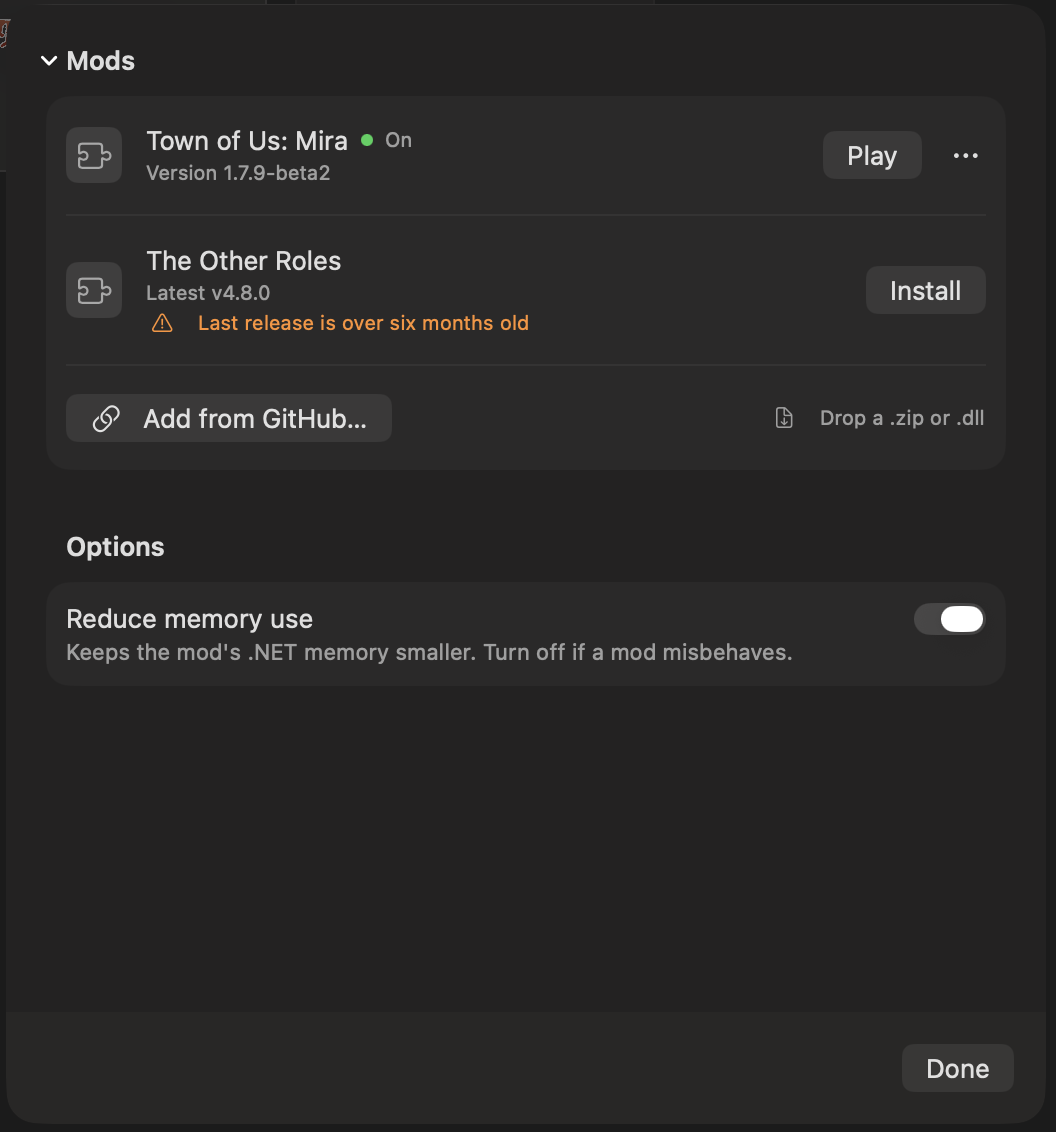
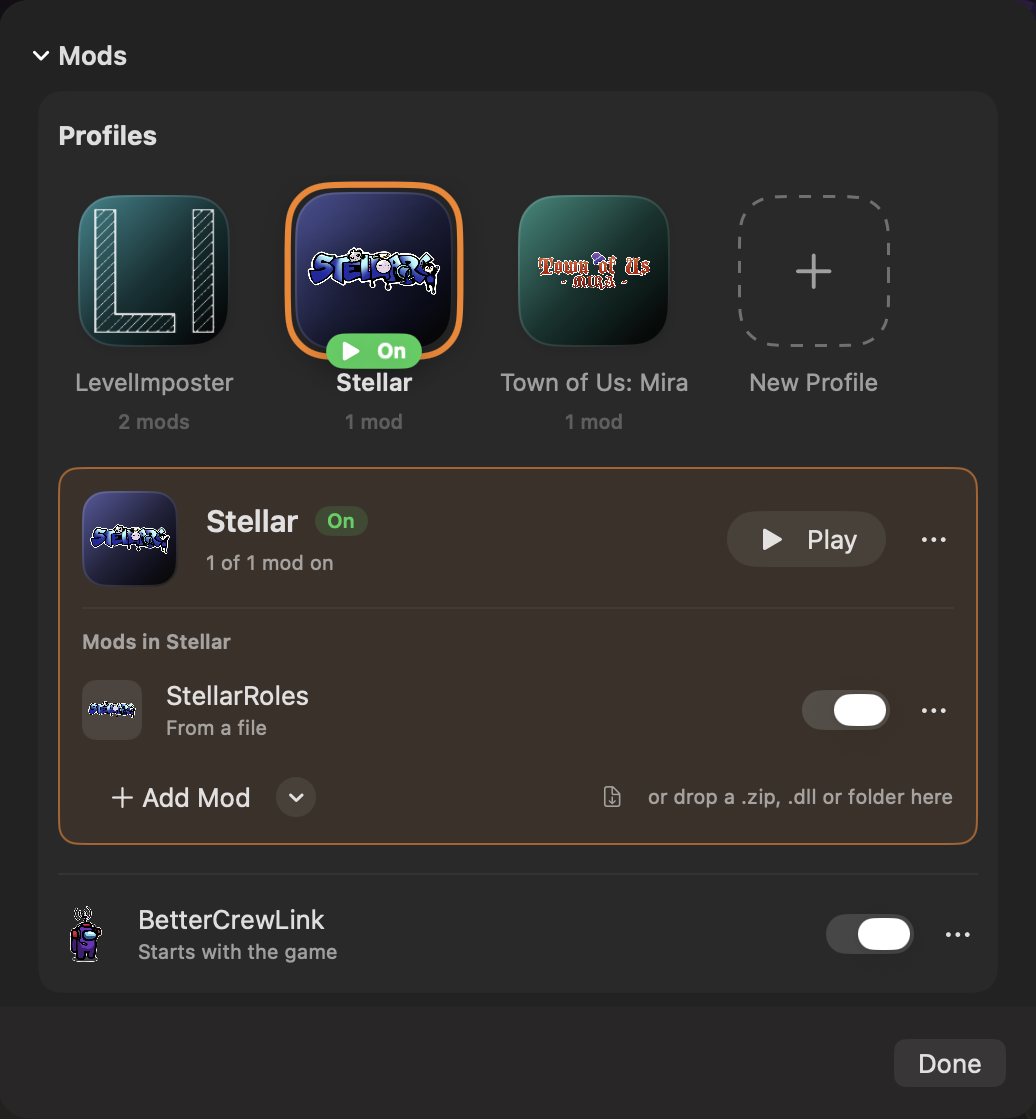
README and site: mod profiles, new screenshots
New Library and profile screenshots, a guide to profiles, and the site's
features for profiles, adding several mods and the in-app Steam Store.

diff --git a/site/src/App.jsx b/site/src/App.jsx
@@ -1,11 +1,11 @@
 import useScrollScenes from './useScrollScenes.js'
 
 const REPO = 'https://github.com/JasonForReels/BetterWhisky'
-const VERSION = '1.0.0'
+const VERSION = '1.3.0'
 const DMG = `${REPO}/releases/download/v${VERSION}/BetterWhisky-${VERSION}.dmg`
 
 const statement =
-  'Paste a GitHub link. Press Play. BetterWhisky finds the right release, reads the install steps, keeps the game version the mod needs, and starts it through Steam so you stay signed in.'
+  'Make a profile. Add any mods to it. Press Play. BetterWhisky finds the right release, reads the install steps, keeps the game version the mod needs, and starts it through Steam so you stay signed in.'
 
 const tour = [
   {
@@ -37,17 +37,17 @@ const tour = [
 const showcase = [
   {
     eyebrow: 'Library',
-    title: 'Every mod gets its own card.',
-    body: 'The regular game and each modded version sit side by side. Each mod lives in an instant APFS clone of the game, so it takes no extra space until Steam changes the original.',
+    title: 'Every profile gets its own card.',
+    body: 'The regular game and each mod profile sit side by side, with the mod\'s own logo. Each profile is an instant APFS clone of the game, so it takes no extra space until Steam changes the original.',
     img: '/images/library.png',
-    alt: 'BetterWhisky Library with Among Us, Town of Us: Mira and Steam, under the Library, Bottles and Search tabs',
+    alt: 'Recently Played: LevelImposter, StellarRoles, Town of Us: Mira and BetterCrewLink',
   },
   {
-    eyebrow: 'Mod settings',
-    title: 'Switch mods with a toggle.',
-    body: 'Built-in presets for Town of Us: Mira and The Other Roles, or any GitHub repo. Dependencies like Reactor and MiraAPI, and runtimes like .NET and Visual C++, come along automatically.',
+    eyebrow: 'Profiles',
+    title: 'Profiles, like a streaming service.',
+    body: 'Each profile is its own copy of the game with any mix of mods: StellarRoles with LevelImposter, Town of Us: Mira on its own, or all three. Add mods from GitHub, a .zip, a .dll or a folder, and switch each one on or off.',
     img: '/images/mod-settings.png',
-    alt: 'Mod settings for Among Us',
+    alt: 'Mod profiles for Among Us: LevelImposter, Stellar with StellarRoles, and Town of Us: Mira',
   },
   {
     eyebrow: 'Loading',
@@ -59,6 +59,9 @@ const showcase = [
 ]
 
 const features = [
+  ['Mods from anywhere, several at once', 'Built-in mods, any GitHub repo, .zips, .dlls or whole folders: tick several and add them in one go. A new mod never replaces files another mod put there.'],
+  ['Pick a profile from the Library', 'The profile button beside Play, or Play With on any game, starts whichever profile you want.'],
+  ['A Steam Store inside the app', 'Browse the Steam Store and buy games without opening the Wine Steam window.'],
   ['Mods update themselves', 'New releases install when they support the current game. A release for a different game version is refused with a clear reason.'],
   ['Plays through Steam', 'Games like Among Us only sign you in when Steam starts them. BetterWhisky sets Steam up once.'],
   ['Each mod keeps its version', 'When Steam updates the game, the modded card keeps working on the old one until the mod catches up.'],
@@ -95,7 +98,7 @@ export default function App() {
             </div>
           </div>
           <div className="hero-device">
-            <img src="/images/app-library.png" alt="BetterWhisky Library under the Library, Bottles and Search tabs" />
+            <img src="/images/app-library.png" alt="BetterWhisky Library: Among Us with Play and the profile button" />
           </div>
         </div>
       </section>

diff --git a/README.md b/README.md
@@ -16,9 +16,9 @@
   · <a href="https://whisky.jasonforreels.com">Website</a>
 </p>
 
-<img alt="BetterWhisky Library with Among Us, Town of Us: Mira and Steam, under the Library, Bottles and Search tabs" src="./images/screenshots/library.png">
+<img alt="BetterWhisky Library: Among Us with the profile button beside Play, and LevelImposter, StellarRoles, Town of Us: Mira and BetterCrewLink under Recently Played" src="./images/screenshots/library.png">
 
-*The regular game and each modded version get their own card. Hover a card for Play and mod settings.*
+*Each mod profile gets its own card, with its mod's logo. The button beside Play picks which profile to play.*
 
 ## Install
 
@@ -59,17 +59,25 @@ handy, pin it: **Bottles** → your bottle → **Pin Program**.
 - Right-click a card for **Mods…**, **Configure Bottle**, or, for a pinned program,
   **Show in Finder** and **Remove Pin**.
 
-### 4. Add mods
+### 4. Add mods with profiles
+
+Mods live in **profiles**, like profiles on a streaming service. Each profile is its own copy of
+the game with whichever mods you pick, all loading together: StellarRoles with LevelImposter,
+Town of Us: Mira on its own, or all three.
 
 1. In the **Library**, hover a game that supports mods and click the **gear**, or right-click it
    and choose **Mods…**.
-2. Pick a built-in mod and click **Install**, or click **Add from GitHub…** and paste the mod's
-   GitHub link. You can also drop a mod's `.zip` or `.dll` onto the sheet.
-3. BetterWhisky shows what it will install before it changes anything. Confirm, and the modded
-   version gets its own card in the Library. Click it to play.
+2. Click **New Profile** and name it.
+3. Click **Add Mod** on the profile: pick a built-in mod, **From GitHub…** (paste the mod's
+   link), or **From Files or Folders…** (`.zip`s, `.dll`s or whole mod folders). **Add Several
+   Mods…** lets you tick several at once, and **New Profile** can start with mods ticked. You can
+   also drop any of those onto the profile.
+4. BetterWhisky shows what it will install before it changes anything. A new mod never replaces
+   files another mod in the profile put there.
 
-Mods update themselves. To turn one off, update it now, or remove it, use its **⋯** menu in the
-same sheet.
+Each mod in a profile has its own on/off switch. To play, press **Play** on the profile, use the
+profile button beside **Play** on the Library banner, or right-click a game and choose
+**Play With**. Mods update themselves; a profile's **⋯** menu copies, renames or removes it.
 
 ### Change a bottle's settings
 
@@ -83,6 +91,11 @@ game's crash log.
 
 ## What BetterWhisky adds
 
+- **Profiles with any mix of mods.** Pick a profile like on a streaming service, and every mod
+  in it loads together, each with its own switch. Add mods from GitHub, a `.zip`, a `.dll` or a
+  whole folder; switch profiles from the Library banner.
+- **Mods that keep their own account start signed in.** Before Play, any mod that keeps its own
+  copy of the game's account save gets yours, so it doesn't stop on the Privacy Policy screen.
 - **Mods from GitHub in one click.** Built-in presets (Town of Us: Mira and The Other Roles for
   Among Us), or paste any GitHub repo. BetterWhisky takes the **latest release**, reads the
   install steps from its **release notes and README**, and shows you the plan before it
@@ -107,12 +120,12 @@ game's crash log.
   opening.
 
 <p>
-  <img width="420" alt="Mod settings: Town of Us on, The Other Roles available, Reduce memory use" src="./images/screenshots/mod-settings.png">
+  <img width="420" alt="Mod profiles: LevelImposter, Stellar (StellarRoles, on) and Town of Us: Mira, with New Profile" src="./images/screenshots/mod-settings.png">
   &nbsp;
   <img width="420" alt="Loading screen for Among Us with Town of Us: Mira" src="./images/screenshots/loading.png">
 </p>
 
-*Left: mod settings for a game. Right: a modded start, stage by stage.*
+*Left: a game's mod profiles. Right: a modded start, stage by stage.*
 
 ## How a modded start works
 
